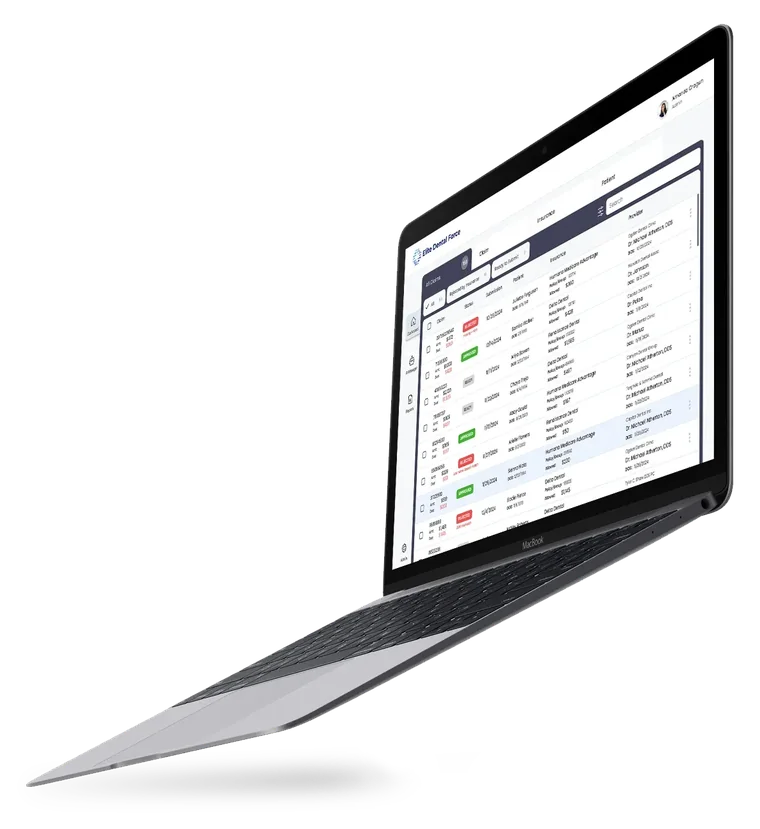
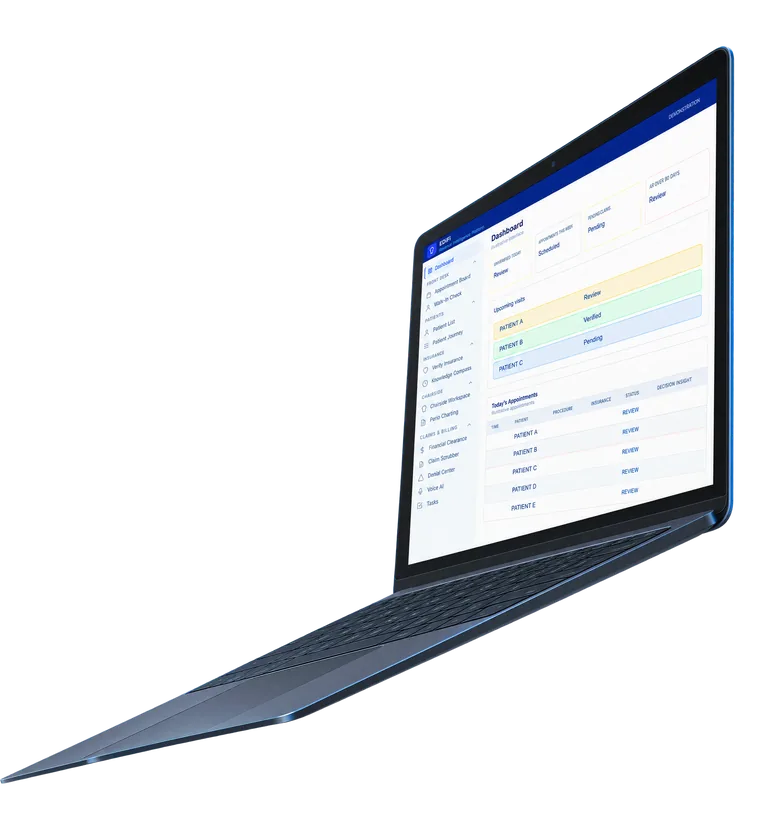
feat: refresh hero poster and crossfade into 3d

Changed region(s): [[0.0, 0.0302, 0.9684, 0.965]]

diff --git a/3d/laptop-scene.js b/3d/laptop-scene.js
@@ -441,6 +441,7 @@ export async function mountHeroMotion(hero, eligible, atTop) {
   const leader = hero.querySelector('.hero-leader');
   const path = leader.querySelector('path'), dot = leader.querySelector('circle');
   let scene, trigger, timeline, pinRefresh, observer, releaseRuntime, stopped = false;
+  let reveal = [];
   let resizing = false;
   let visible = true, lastProgress = 0, slowFrames = 0;
   const listeners = new AbortController();
@@ -458,6 +459,7 @@ export async function mountHeroMotion(hero, eligible, atTop) {
     const distance = trigger ? Math.max(0, Math.min(scrollY - trigger.start, trigger.end - trigger.start)) : 0;
     listeners.abort();
     observer?.disconnect();
+    reveal.forEach(animation => animation.cancel());
     killPin();
     scene?.dispose();
     releaseRuntime?.();
@@ -535,6 +537,10 @@ export async function mountHeroMotion(hero, eligible, atTop) {
     hero.dataset.motion = 'ready';
     skip.hidden = false;
     scene.setProgress(0);
+    // Scripted animations survive ScrollTrigger reparenting the stage during refresh.
+    const fade = { duration: 650, easing: 'ease-in-out' };
+    reveal = [canvas.animate({ opacity: [0, 1] }, fade),
+      hero.querySelector('.product-visual img').animate({ opacity: [1, 0] }, fade)];
     const resize = () => {
       if (stopped || resizing) return;
       if (!eligible()) return restore('fallback', true);
